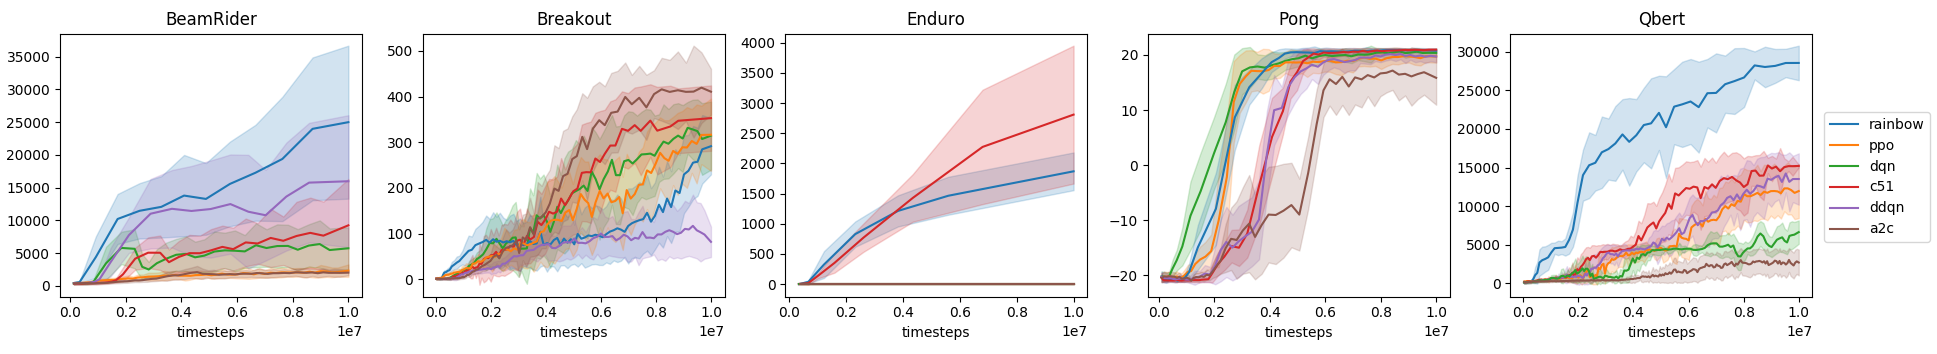
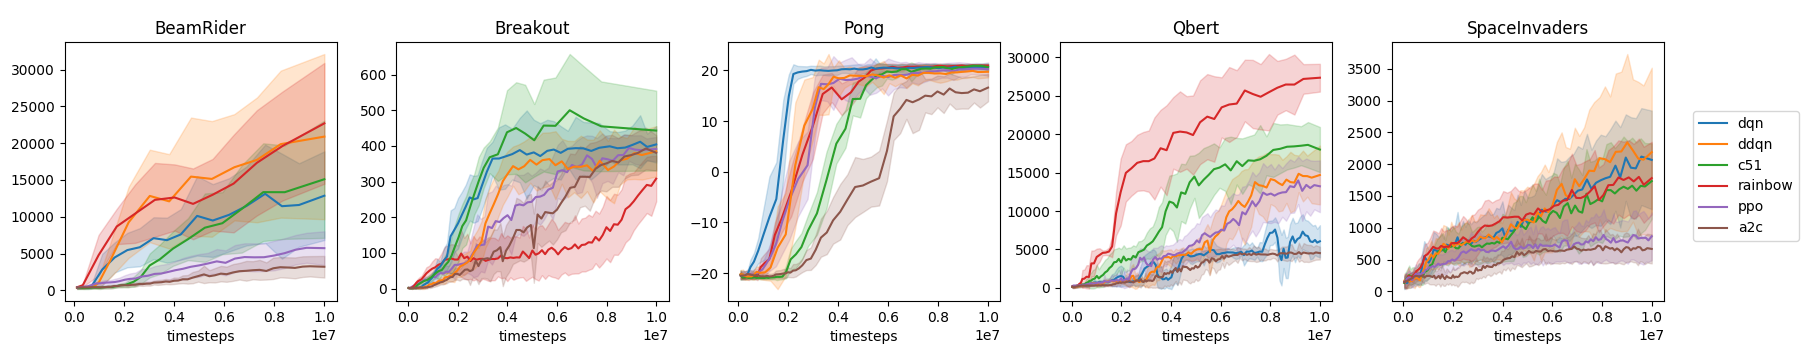
add atari benchmark performance

diff --git a/docs/source/conf.py b/docs/source/conf.py
@@ -34,6 +34,7 @@ extensions = [
     'sphinx.ext.autodoc',
     'sphinx.ext.napoleon',
     'sphinx.ext.autosummary',
+    'sphinx.ext.autosectionlabel',
     'sphinx_automodapi.automodapi',
     'sphinx_rtd_theme'
 ]

diff --git a/docs/source/guide/benchmark_performance.rst b/docs/source/guide/benchmark_performance.rst
@@ -1,0 +1,40 @@
+Benchmark Performance
+=====================
+
+Reinforcement learning algorithms are difficult to debug and test.
+For this reason, in order to ensuring the correctness of the preset agents provided by the ``autonomous-learning-library``,
+we benchmark each algorithm after every major change.
+We also discuss the performance of our implementations relative to published results.
+
+Atari Presets
+-------------
+
+To benchmark the Atari presets, we ran each agent for 10 million timesteps (40 million in-game frames).
+The learning rate is decayed over the course of training using cosine annealing.
+The environment implementation uses the following wrappers:
+
+* NoopResetEnv (adds a random number of noops at the beginning of each game reset)
+* MaxAndSkipEnv (Repeats each action four times before the next agent observation. Takes the max pixel value over the four frames.)
+* FireResetEnv (Automatically chooses the "FIRE" action when env.reset() is called)
+* WarpFrame (Rescales the frame to 84x84 and greyscales the image)
+* LifeLostEnv (Adds a key to "info" indicating that a life was lost)
+
+Additionally, we use the following agent "bodies":
+
+* FrameStack (provides the last four frames as the state)
+* ClipRewards (Converts all rewards to {-1, 0, 1})
+* EpisodicLives (If life was lost, treats the frame as the end of an episode)
+
+The results were as follows:
+
+.. image:: ../../../benchmarks/atari40.png
+
+For comparison, we look at the results published in the paper, `Rainbow: Combining Improvements in Deep Reinforcement Learning <https://arxiv.org/abs/1710.02298>`_:
+
+.. image:: ./rainbow.png
+
+In these results, the authors ran each agent for 50 million timesteps (200 million frames).
+We can see that at the 10 million timestep mark, our results are similar or slightly better.
+Our ``dqn`` and ``ddqn`` in particular were better almost across the board.
+While there are almost certainly some minor implementation differences,
+our agents achieved very similar behavior to the agents tested by DeepMind.

diff --git a/docs/source/index.rst b/docs/source/index.rst
@@ -11,6 +11,7 @@ This documentation is under construction!
     guide/getting_started
     guide/basic_concepts
     guide/creating_agent
+    guide/benchmark_performance
 
 .. toctree::
     :maxdepth: 2
